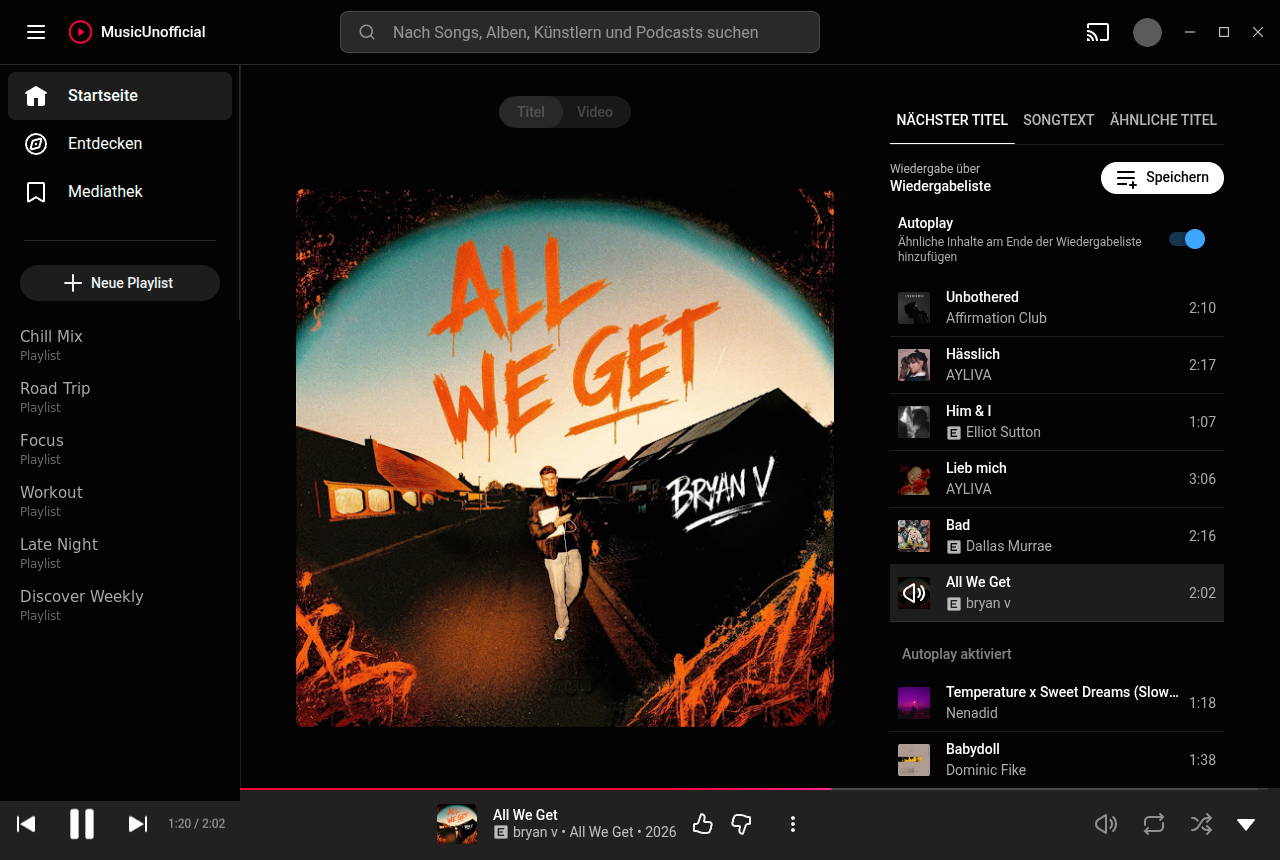
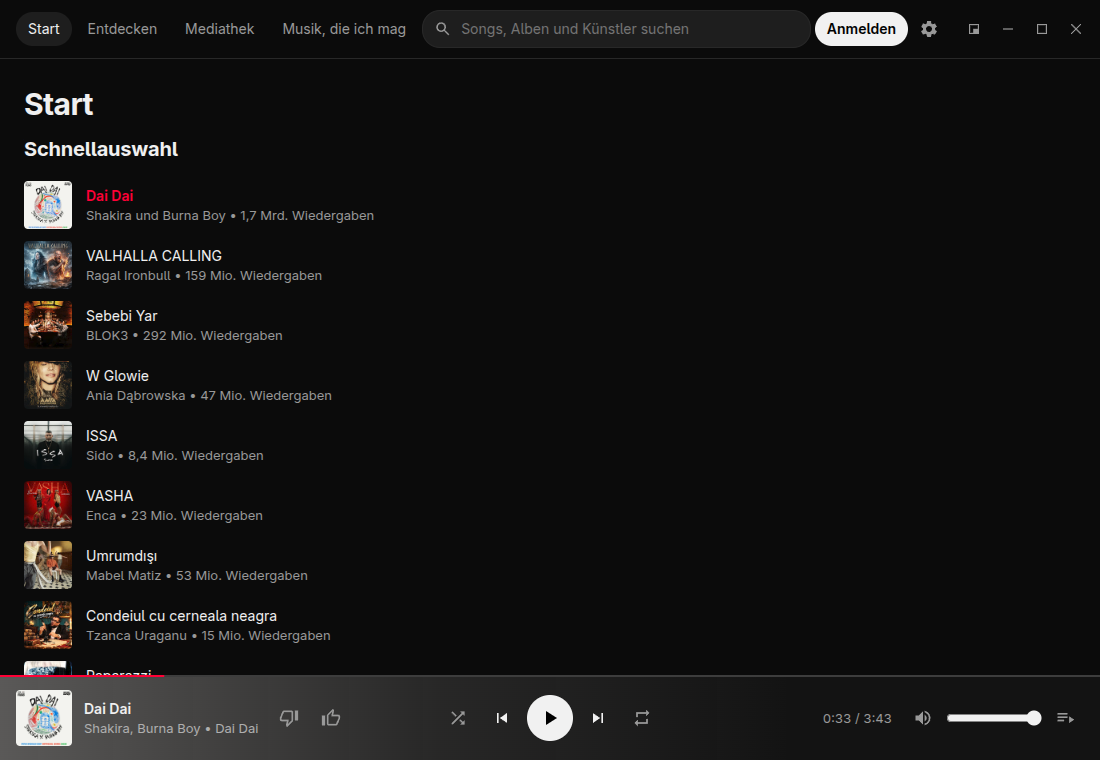
Bring the README up to date
New screenshot of the own interface, taken signed out with an empty
profile; the old one still showed the website before the remake. The
README now says the player is read every three seconds in the
background, and that the last track comes back paused.

diff --git a/README.md b/README.md
@@ -38,7 +38,7 @@
 
 <img src="docs/screenshot.png" width="820" alt="The player running in its own frameless window">
 
-<sub>Playlist names and profile picture replaced for this screenshot.</sub>
+<sub>Signed out, with the German interface.</sub>
 
 </div>
 
@@ -69,7 +69,7 @@ catches up.
 | Discord | Rich Presence, on by default, switched off in the settings or from the tray |
 | Extras | Sleep timer, a notification on a new track, Last.fm scrobbling with an API account of your own. Scrobbles made offline are sent once Last.fm is reachable again |
 | Tray | Closing the window keeps playback running. The icon shows the track and offers play, pause and skip; quit from the tray or with `Ctrl+Q` |
-| Remembers itself | Window size, maximised state, zoom and the last opened page are restored on the next start, the window position too on X11 |
+| Remembers itself | Window size, maximised state, zoom and the last opened page are restored on the next start, the window position too on X11. The last track comes back paused where it stopped, if that was less than a week ago |
 | Stays signed in | The profile survives updates, so an update does not sign you out |
 | Runs anywhere | No `libfuse2` required, works on distributions that stopped shipping it |
 | Dependencies | Electron plus one small pure JavaScript D-Bus library for the media keys |
@@ -109,7 +109,9 @@ draws at 20 frames per second.
 Track information comes from the page's own `mediaSession` data, the same
 source the media keys and the desktop's media widget use, so it does not depend
 on the site's markup staying the way it is today. The page reads the player once
-a second and reports only what changed, which costs about 0.2 % of one core.
+a second while a window shows the track and every three seconds in the
+background, and reports only what changed. The fast rate costs about 0.2 % of
+one core.
 
 ## Discord Rich Presence
 
